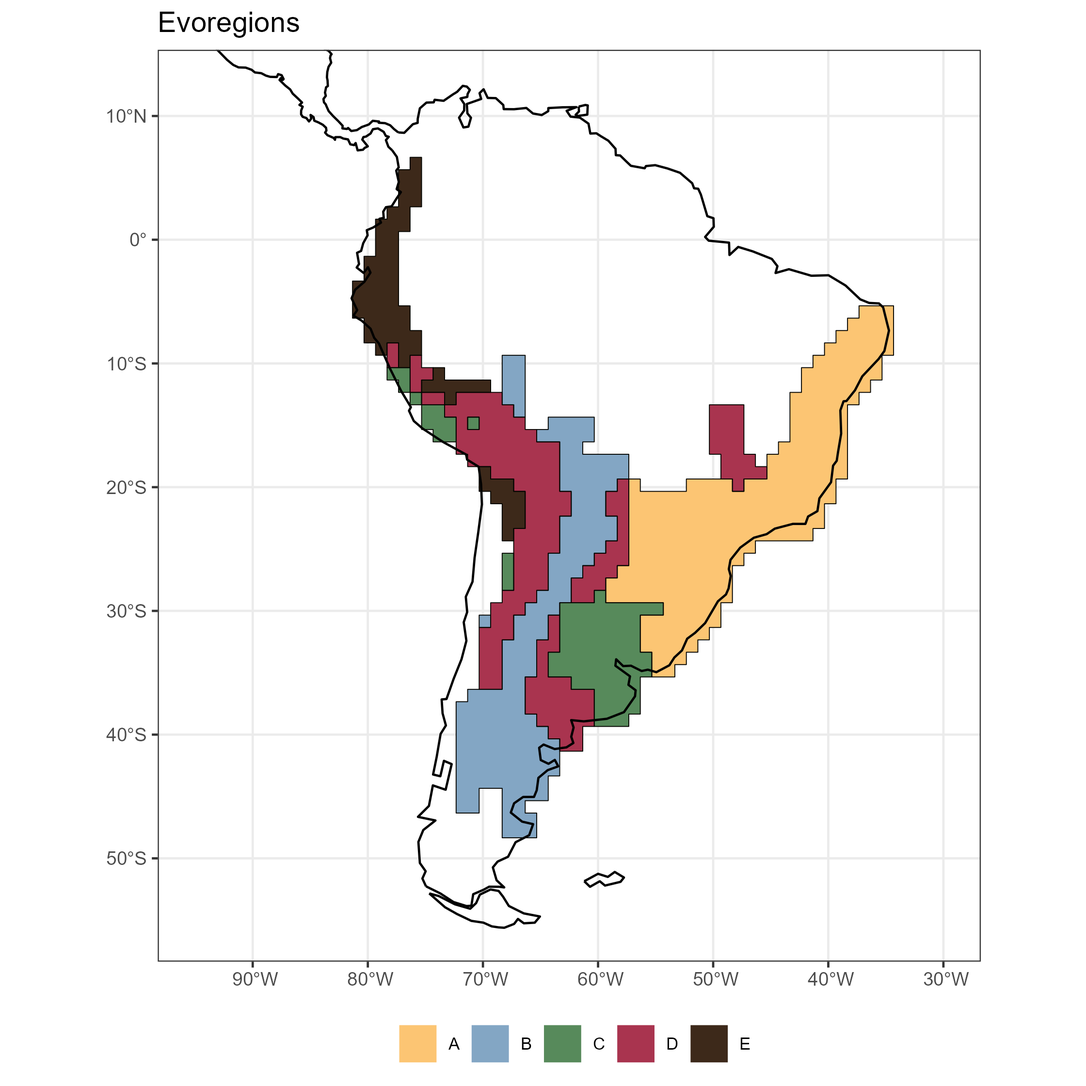
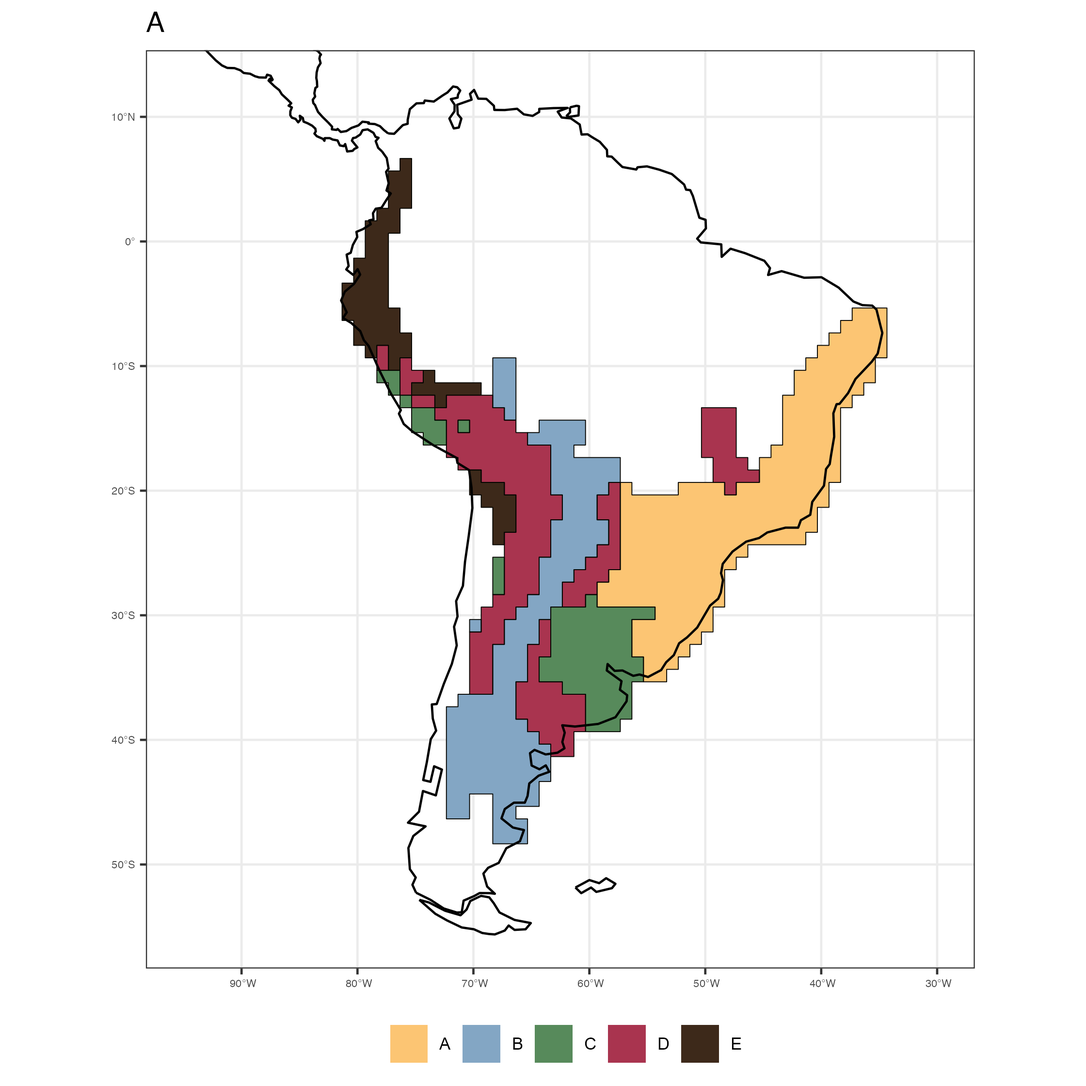
Built site for Herodotools: 0.0.1@b6ad77c

diff --git a/articles/Intro_Herodotools_vignette.html b/articles/Intro_Herodotools_vignette.html
@@ -70,7 +70,7 @@
     <div class="page-header toc-ignore">
       <h1 data-toc-skip>Introduction to Herodotools</h1>
             
-            <h4 data-toc-skip class="date">2022-06-19</h4>
+            <h4 data-toc-skip class="date">2022-06-20</h4>
       
       
       <div class="hidden name"><code>Intro_Herodotools_vignette.Rmd</code></div>
@@ -210,14 +210,14 @@
 <div class="sourceCode" id="cb9"><pre class="downlit sourceCode r">
 <code class="sourceCode R">
 <span class="va">map_evoregion</span> <span class="op">&lt;-</span> 
-<span class="va">evoregion.df</span> <span class="op"><a href="../reference/pipe.html">%&gt;%</a></span> 
+  <span class="va">evoregion.df</span> <span class="op"><a href="../reference/pipe.html">%&gt;%</a></span> 
   <span class="fu"><a href="https://ggplot2.tidyverse.org/reference/ggplot.html" class="external-link">ggplot</a></span><span class="op">(</span><span class="op">)</span> <span class="op">+</span> 
   <span class="fu"><a href="https://ggplot2.tidyverse.org/reference/geom_tile.html" class="external-link">geom_raster</a></span><span class="op">(</span><span class="fu"><a href="https://ggplot2.tidyverse.org/reference/aes.html" class="external-link">aes</a></span><span class="op">(</span>x <span class="op">=</span> <span class="va">LONG</span>, y <span class="op">=</span> <span class="va">LAT</span>, fill <span class="op">=</span> <span class="va">site.region</span><span class="op">)</span><span class="op">)</span> <span class="op">+</span> 
   <span class="fu"><a href="https://ggplot2.tidyverse.org/reference/scale_manual.html" class="external-link">scale_fill_manual</a></span><span class="op">(</span>
     name <span class="op">=</span> <span class="st">""</span>, 
     labels <span class="op">=</span> <span class="va">LETTERS</span><span class="op">[</span><span class="fl">1</span><span class="op">:</span><span class="fl">5</span><span class="op">]</span>,
     values <span class="op">=</span> <span class="fu"><a href="https://rdrr.io/pkg/terra/man/flip.html" class="external-link">rev</a></span><span class="op">(</span><span class="va">col_five_hues</span><span class="op">)</span>
-    <span class="op">)</span> <span class="op">+</span>
+  <span class="op">)</span> <span class="op">+</span>
   <span class="fu"><a href="https://ggplot2.tidyverse.org/reference/ggsf.html" class="external-link">geom_sf</a></span><span class="op">(</span>data <span class="op">=</span> <span class="va">coastline</span><span class="op">)</span> <span class="op">+</span>
   <span class="fu"><a href="https://ggplot2.tidyverse.org/reference/ggsf.html" class="external-link">geom_sf</a></span><span class="op">(</span>
     data <span class="op">=</span> <span class="va">sf.evoregion</span>, 
@@ -225,11 +225,13 @@
     fill <span class="op">=</span> <span class="cn">NA</span>, 
     size <span class="op">=</span> <span class="fl">0.2</span><span class="op">)</span> <span class="op">+</span>
   <span class="fu"><a href="https://ggplot2.tidyverse.org/reference/ggsf.html" class="external-link">coord_sf</a></span><span class="op">(</span>xlim <span class="op">=</span> <span class="va">map.limits</span><span class="op">$</span><span class="va">x</span>, ylim <span class="op">=</span> <span class="va">map.limits</span><span class="op">$</span><span class="va">y</span><span class="op">)</span> <span class="op">+</span>
-  <span class="fu"><a href="https://ggplot2.tidyverse.org/reference/labs.html" class="external-link">ggtitle</a></span><span class="op">(</span><span class="st">"Evoregions"</span><span class="op">)</span> <span class="op">+</span> 
+  <span class="fu"><a href="https://ggplot2.tidyverse.org/reference/labs.html" class="external-link">ggtitle</a></span><span class="op">(</span><span class="st">"A"</span><span class="op">)</span> <span class="op">+</span> 
   <span class="fu"><a href="https://ggplot2.tidyverse.org/reference/ggtheme.html" class="external-link">theme_bw</a></span><span class="op">(</span><span class="op">)</span> <span class="op">+</span>
   <span class="fu"><a href="https://ggplot2.tidyverse.org/reference/theme.html" class="external-link">theme</a></span><span class="op">(</span>
     legend.position <span class="op">=</span> <span class="st">"bottom"</span>,
     axis.title <span class="op">=</span> <span class="fu"><a href="https://ggplot2.tidyverse.org/reference/element.html" class="external-link">element_blank</a></span><span class="op">(</span><span class="op">)</span>,
+    axis.text <span class="op">=</span> <span class="fu"><a href="https://ggplot2.tidyverse.org/reference/element.html" class="external-link">element_text</a></span><span class="op">(</span>size <span class="op">=</span> <span class="fl">5</span><span class="op">)</span>,
+    plot.subtitle <span class="op">=</span> <span class="fu"><a href="https://ggplot2.tidyverse.org/reference/element.html" class="external-link">element_text</a></span><span class="op">(</span>hjust <span class="op">=</span> <span class="fl">0.5</span><span class="op">)</span>,
     legend.text <span class="op">=</span> <span class="fu"><a href="https://ggplot2.tidyverse.org/reference/element.html" class="external-link">element_text</a></span><span class="op">(</span>family <span class="op">=</span> <span class="st">"Arial"</span>, color <span class="op">=</span> <span class="st">"black"</span>, size <span class="op">=</span> <span class="fl">8</span><span class="op">)</span>
   <span class="op">)</span></code></pre></div>
 <p><img src="Fig2_evoregion_akodon.png"><!-- --></p>
@@ -378,44 +380,52 @@
                         tree <span class="op">=</span> <span class="va">akodon.newick</span>, 
                         ancestral.area <span class="op">=</span> <span class="va">node.area</span>, 
                         biogeo <span class="op">=</span> <span class="va">biogeo_area</span><span class="op">)</span> </code></pre></div>
-<p>The function <code>age_arrival</code> returns a object containing the mean age for each assemblage. The mean is calculated considering the arrival age of all species occurring in a assemblage. Species in which the transition to the current region occurred between the last ancestor and the present can be dealt in two ways: the default is attribute a low value for those species, and another option is to attribute the age correspondig to half of the branch length connecting the ancestor to the present time.</p>
+<p>The function <code>age_arrival</code> returns a object containing the mean age for each assemblage. Species in which the transition to the current region occurred between the last ancestor and the present can be dealt in two ways: the default is by represent it as a low arrival value for those species, and another option is to attribute the age corresponding to half of the branch length connecting the ancestor to the present time. Here we adopted the first option.</p>
 <p>With mean age for each assemblage we can map the ages for all assemblages</p>
 <div class="sourceCode" id="cb16"><pre class="downlit sourceCode r">
 <code class="sourceCode R">
 <span class="va">sites</span> <span class="op">&lt;-</span> <span class="fu"><a href="https://dplyr.tidyverse.org/reference/bind.html" class="external-link">bind_cols</a></span><span class="op">(</span><span class="va">site.xy</span>, site.region <span class="op">=</span>  <span class="va">site.region</span>, <span class="va">afi</span>, age <span class="op">=</span> <span class="va">age_comm</span><span class="op">$</span><span class="va">mean_age_per_assemblage</span><span class="op">)</span>
 
 <span class="va">map_age</span> <span class="op">&lt;-</span> 
-   <span class="va">sites</span> <span class="op"><a href="../reference/pipe.html">%&gt;%</a></span> 
-   <span class="fu"><a href="https://ggplot2.tidyverse.org/reference/ggplot.html" class="external-link">ggplot</a></span><span class="op">(</span><span class="op">)</span> <span class="op">+</span> 
-   <span class="fu"><a href="https://ggplot2.tidyverse.org/reference/geom_tile.html" class="external-link">geom_raster</a></span><span class="op">(</span><span class="fu"><a href="https://ggplot2.tidyverse.org/reference/aes.html" class="external-link">aes</a></span><span class="op">(</span>x <span class="op">=</span> <span class="va">LONG</span>, y <span class="op">=</span> <span class="va">LAT</span>, fill <span class="op">=</span> <span class="va">mean_age_arrival</span><span class="op">)</span><span class="op">)</span> <span class="op">+</span> 
-   <span class="fu"><a href="https://rdrr.io/pkg/rcartocolor/man/carto_scale.html" class="external-link">scale_fill_carto_c</a></span><span class="op">(</span>type <span class="op">=</span> <span class="st">"quantitative"</span>, palette <span class="op">=</span> <span class="st">"SunsetDark"</span><span class="op">)</span> <span class="op">+</span>
-   <span class="fu"><a href="https://ggplot2.tidyverse.org/reference/ggsf.html" class="external-link">geom_sf</a></span><span class="op">(</span>data <span class="op">=</span> <span class="va">coastline</span>, size <span class="op">=</span> <span class="fl">0.4</span><span class="op">)</span> <span class="op">+</span>
-   <span class="fu"><a href="https://ggplot2.tidyverse.org/reference/ggsf.html" class="external-link">geom_sf</a></span><span class="op">(</span>
-     data <span class="op">=</span> <span class="va">sf.evoregion</span>, 
-     color <span class="op">=</span> <span class="fu"><a href="https://rdrr.io/pkg/terra/man/flip.html" class="external-link">rev</a></span><span class="op">(</span><span class="va">col_five_hues</span><span class="op">)</span>,
-     fill <span class="op">=</span> <span class="cn">NA</span>, 
-     size <span class="op">=</span> <span class="fl">0.7</span><span class="op">)</span> <span class="op">+</span>
-   <span class="fu"><a href="https://ggplot2.tidyverse.org/reference/ggsf.html" class="external-link">coord_sf</a></span><span class="op">(</span>xlim <span class="op">=</span> <span class="va">map.limits</span><span class="op">$</span><span class="va">x</span>, ylim <span class="op">=</span> <span class="va">map.limits</span><span class="op">$</span><span class="va">y</span><span class="op">)</span> <span class="op">+</span>
-   <span class="fu"><a href="https://ggplot2.tidyverse.org/reference/labs.html" class="external-link">ggtitle</a></span><span class="op">(</span><span class="st">"Age of assemblages for Akodon Genus"</span><span class="op">)</span> <span class="op">+</span> 
-   <span class="fu"><a href="https://ggplot2.tidyverse.org/reference/ggtheme.html" class="external-link">theme_bw</a></span><span class="op">(</span><span class="op">)</span> <span class="op">+</span>
-   <span class="fu"><a href="https://ggplot2.tidyverse.org/reference/labs.html" class="external-link">labs</a></span><span class="op">(</span>fill <span class="op">=</span> <span class="st">"Mean arrival age"</span><span class="op">)</span> <span class="op">+</span>
-   <span class="fu"><a href="https://ggplot2.tidyverse.org/reference/guides.html" class="external-link">guides</a></span><span class="op">(</span>fill <span class="op">=</span> <span class="fu"><a href="https://ggplot2.tidyverse.org/reference/guide_colourbar.html" class="external-link">guide_colorbar</a></span><span class="op">(</span>barheight <span class="op">=</span> <span class="fu"><a href="https://rdrr.io/r/grid/unit.html" class="external-link">unit</a></span><span class="op">(</span><span class="fl">2.3</span>, units <span class="op">=</span> <span class="st">"mm"</span><span class="op">)</span>,  
+  <span class="va">sites</span> <span class="op"><a href="../reference/pipe.html">%&gt;%</a></span> 
+  <span class="fu"><a href="https://ggplot2.tidyverse.org/reference/ggplot.html" class="external-link">ggplot</a></span><span class="op">(</span><span class="op">)</span> <span class="op">+</span> 
+  <span class="fu"><a href="https://ggplot2.tidyverse.org/reference/geom_tile.html" class="external-link">geom_raster</a></span><span class="op">(</span><span class="fu"><a href="https://ggplot2.tidyverse.org/reference/aes.html" class="external-link">aes</a></span><span class="op">(</span>x <span class="op">=</span> <span class="va">LONG</span>, y <span class="op">=</span> <span class="va">LAT</span>, fill <span class="op">=</span> <span class="va">mean_age_arrival</span><span class="op">)</span><span class="op">)</span> <span class="op">+</span> 
+  <span class="fu"><a href="https://rdrr.io/pkg/rcartocolor/man/carto_scale.html" class="external-link">scale_fill_carto_c</a></span><span class="op">(</span>type <span class="op">=</span> <span class="st">"quantitative"</span>, 
+                     palette <span class="op">=</span> <span class="st">"SunsetDark"</span>,
+                     direction <span class="op">=</span> <span class="fl">1</span>, 
+                     limits <span class="op">=</span> <span class="fu"><a href="https://rdrr.io/pkg/terra/man/c.html" class="external-link">c</a></span><span class="op">(</span><span class="fl">0</span>, <span class="fl">3.5</span><span class="op">)</span>,  <span class="co">## max percent overall</span>
+                     breaks <span class="op">=</span> <span class="fu"><a href="https://rdrr.io/r/base/seq.html" class="external-link">seq</a></span><span class="op">(</span><span class="fl">0</span>, <span class="fl">3.5</span>, by <span class="op">=</span> <span class="fl">.5</span><span class="op">)</span>,
+                     labels <span class="op">=</span> <span class="fu">glue</span><span class="fu">::</span><span class="fu"><a href="https://glue.tidyverse.org/reference/glue.html" class="external-link">glue</a></span><span class="op">(</span><span class="st">"{seq(0, 3.5, by = 0.5)}"</span><span class="op">)</span><span class="op">)</span> <span class="op">+</span>
+  <span class="fu"><a href="https://ggplot2.tidyverse.org/reference/ggsf.html" class="external-link">geom_sf</a></span><span class="op">(</span>data <span class="op">=</span> <span class="va">coastline</span>, size <span class="op">=</span> <span class="fl">0.4</span><span class="op">)</span> <span class="op">+</span>
+  <span class="fu"><a href="https://ggplot2.tidyverse.org/reference/ggsf.html" class="external-link">geom_sf</a></span><span class="op">(</span>
+    data <span class="op">=</span> <span class="va">sf.evoregion</span>, 
+    color <span class="op">=</span> <span class="fu"><a href="https://rdrr.io/pkg/terra/man/flip.html" class="external-link">rev</a></span><span class="op">(</span><span class="va">col_five_hues</span><span class="op">)</span>,
+    fill <span class="op">=</span> <span class="cn">NA</span>, 
+    size <span class="op">=</span> <span class="fl">0.7</span><span class="op">)</span> <span class="op">+</span>
+  <span class="fu"><a href="https://ggplot2.tidyverse.org/reference/ggsf.html" class="external-link">coord_sf</a></span><span class="op">(</span>xlim <span class="op">=</span> <span class="va">map.limits</span><span class="op">$</span><span class="va">x</span>, ylim <span class="op">=</span> <span class="va">map.limits</span><span class="op">$</span><span class="va">y</span><span class="op">)</span> <span class="op">+</span>
+  <span class="fu"><a href="https://ggplot2.tidyverse.org/reference/labs.html" class="external-link">ggtitle</a></span><span class="op">(</span><span class="st">"B"</span><span class="op">)</span> <span class="op">+</span> 
+  <span class="fu"><a href="https://ggplot2.tidyverse.org/reference/ggtheme.html" class="external-link">theme_bw</a></span><span class="op">(</span><span class="op">)</span> <span class="op">+</span>
+  <span class="fu"><a href="https://ggplot2.tidyverse.org/reference/labs.html" class="external-link">labs</a></span><span class="op">(</span>fill <span class="op">=</span> <span class="st">"Mean age (Myr)"</span><span class="op">)</span> <span class="op">+</span>
+  <span class="fu"><a href="https://ggplot2.tidyverse.org/reference/guides.html" class="external-link">guides</a></span><span class="op">(</span>fill <span class="op">=</span> <span class="fu"><a href="https://ggplot2.tidyverse.org/reference/guide_colourbar.html" class="external-link">guide_colorbar</a></span><span class="op">(</span>barheight <span class="op">=</span> <span class="fu"><a href="https://rdrr.io/r/grid/unit.html" class="external-link">unit</a></span><span class="op">(</span><span class="fl">2.3</span>, units <span class="op">=</span> <span class="st">"mm"</span><span class="op">)</span>,  
                                direction <span class="op">=</span> <span class="st">"horizontal"</span>,
                                ticks.colour <span class="op">=</span> <span class="st">"grey20"</span>,
                                title.position <span class="op">=</span> <span class="st">"top"</span>,
                                label.position <span class="op">=</span> <span class="st">"bottom"</span>,
                                title.hjust <span class="op">=</span> <span class="fl">0.5</span><span class="op">)</span><span class="op">)</span> <span class="op">+</span>
-   <span class="fu"><a href="https://ggplot2.tidyverse.org/reference/theme.html" class="external-link">theme</a></span><span class="op">(</span>
-     legend.position <span class="op">=</span> <span class="st">"bottom"</span>,
-     axis.title <span class="op">=</span> <span class="fu"><a href="https://ggplot2.tidyverse.org/reference/element.html" class="external-link">element_blank</a></span><span class="op">(</span><span class="op">)</span>
-   <span class="op">)</span></code></pre></div>
+  <span class="fu"><a href="https://ggplot2.tidyverse.org/reference/theme.html" class="external-link">theme</a></span><span class="op">(</span>
+    legend.position <span class="op">=</span> <span class="st">"bottom"</span>,
+    axis.title <span class="op">=</span> <span class="fu"><a href="https://ggplot2.tidyverse.org/reference/element.html" class="external-link">element_blank</a></span><span class="op">(</span><span class="op">)</span>,
+    legend.text <span class="op">=</span> <span class="fu"><a href="https://ggplot2.tidyverse.org/reference/element.html" class="external-link">element_text</a></span><span class="op">(</span>size <span class="op">=</span> <span class="fl">10</span><span class="op">)</span>, 
+    axis.text <span class="op">=</span> <span class="fu"><a href="https://ggplot2.tidyverse.org/reference/element.html" class="external-link">element_text</a></span><span class="op">(</span>size <span class="op">=</span> <span class="fl">5</span><span class="op">)</span>,
+    plot.subtitle <span class="op">=</span> <span class="fu"><a href="https://ggplot2.tidyverse.org/reference/element.html" class="external-link">element_text</a></span><span class="op">(</span>hjust <span class="op">=</span> <span class="fl">0.5</span><span class="op">)</span>
+  <span class="op">)</span></code></pre></div>
 <p><img src="Fig4_age_akodon.png"><!-- --></p>
 </div>
 <div class="section level3">
 <h3 id="phylomodelmetrics">Model-based diversification metrics<a class="anchor" aria-label="anchor" href="#phylomodelmetrics"></a>
 </h3>
-<p>We can also calculate measures of diversification considering the macroevolutionary dynamics. The new measures allows to decompose the effects of two macroevolutionary process: in situ diversification and historical dispersal. Here we will illustrate this by calculating a common tip-based diversification measure propposed by <a href="https://www.nature.com/articles/nature11631" class="external-link">Jetz et al</a>.</p>
-<p>We modified the original metric to take into account only the portion of evolutionary history that are associated with the region in which the species currently occupy, this value represent the diversification that occurred due to <em>in situ diversification process</em></p>
+<p>We can also calculate measures of diversification considering the macroevolutionary dynamics of ancestor area. The new measures allows to decompose the effects of two macroevolutionary process: in situ diversification and historical dispersal. Here we will illustrate this by calculating a common tip-based diversification measure propposed by <a href="">Reeding and Moers</a> that consists in the inverse of equal-splits measure called Diversification Rate (DR).</p>
+<p>We modified the original metric to take into account only the portion of evolutionary history that is associated with the region in which the species currently occupy, this value represent the diversification that occurred due to <em>in situ diversification process</em></p>
 <div class="sourceCode" id="cb17"><pre class="downlit sourceCode r">
 <code class="sourceCode R"><span class="va">akodon_diversification</span> <span class="op">&lt;-</span> 
 <span class="fu"><a href="../reference/db_diversification.html">db_diversification</a></span><span class="op">(</span>W <span class="op">=</span> <span class="va">akodon.pa.tree</span>,
@@ -460,30 +470,38 @@
    <span class="op">)</span>
 
 <span class="va">map_diversification_model_based</span> <span class="op">&lt;-</span> 
-   <span class="va">sites</span> <span class="op"><a href="../reference/pipe.html">%&gt;%</a></span> 
-   <span class="fu"><a href="https://ggplot2.tidyverse.org/reference/ggplot.html" class="external-link">ggplot</a></span><span class="op">(</span><span class="op">)</span> <span class="op">+</span> 
-   <span class="fu"><a href="https://ggplot2.tidyverse.org/reference/geom_tile.html" class="external-link">geom_raster</a></span><span class="op">(</span><span class="fu"><a href="https://ggplot2.tidyverse.org/reference/aes.html" class="external-link">aes</a></span><span class="op">(</span>x <span class="op">=</span> <span class="va">LONG</span>, y <span class="op">=</span> <span class="va">LAT</span>, fill <span class="op">=</span> <span class="va">diversification_model_based</span><span class="op">)</span><span class="op">)</span> <span class="op">+</span> 
-   <span class="fu"><a href="https://rdrr.io/pkg/rcartocolor/man/carto_scale.html" class="external-link">scale_fill_carto_c</a></span><span class="op">(</span>type <span class="op">=</span> <span class="st">"quantitative"</span>, palette <span class="op">=</span> <span class="st">"SunsetDark"</span><span class="op">)</span> <span class="op">+</span>
-   <span class="fu"><a href="https://ggplot2.tidyverse.org/reference/ggsf.html" class="external-link">geom_sf</a></span><span class="op">(</span>data <span class="op">=</span> <span class="va">coastline</span>, size <span class="op">=</span> <span class="fl">0.4</span><span class="op">)</span> <span class="op">+</span>
-   <span class="fu"><a href="https://ggplot2.tidyverse.org/reference/ggsf.html" class="external-link">geom_sf</a></span><span class="op">(</span>
-     data <span class="op">=</span> <span class="va">sf.evoregion</span>, 
-     color <span class="op">=</span> <span class="fu"><a href="https://rdrr.io/pkg/terra/man/flip.html" class="external-link">rev</a></span><span class="op">(</span><span class="va">col_five_hues</span><span class="op">)</span>,
-     fill <span class="op">=</span> <span class="cn">NA</span>, 
-     size <span class="op">=</span> <span class="fl">0.7</span><span class="op">)</span> <span class="op">+</span>
-   <span class="fu"><a href="https://ggplot2.tidyverse.org/reference/ggsf.html" class="external-link">coord_sf</a></span><span class="op">(</span>xlim <span class="op">=</span> <span class="va">map.limits</span><span class="op">$</span><span class="va">x</span>, ylim <span class="op">=</span> <span class="va">map.limits</span><span class="op">$</span><span class="va">y</span><span class="op">)</span> <span class="op">+</span>
-   <span class="fu"><a href="https://ggplot2.tidyverse.org/reference/labs.html" class="external-link">ggtitle</a></span><span class="op">(</span><span class="st">"In-situ Diversification"</span><span class="op">)</span> <span class="op">+</span> 
-   <span class="fu"><a href="https://ggplot2.tidyverse.org/reference/ggtheme.html" class="external-link">theme_bw</a></span><span class="op">(</span><span class="op">)</span> <span class="op">+</span>
-   <span class="fu"><a href="https://ggplot2.tidyverse.org/reference/labs.html" class="external-link">labs</a></span><span class="op">(</span>fill <span class="op">=</span> <span class="st">"Harmonic mean in-situ diversification"</span><span class="op">)</span> <span class="op">+</span>
-    <span class="fu"><a href="https://ggplot2.tidyverse.org/reference/guides.html" class="external-link">guides</a></span><span class="op">(</span>fill <span class="op">=</span> <span class="fu"><a href="https://ggplot2.tidyverse.org/reference/guide_colourbar.html" class="external-link">guide_colorbar</a></span><span class="op">(</span>barheight <span class="op">=</span> <span class="fu"><a href="https://rdrr.io/r/grid/unit.html" class="external-link">unit</a></span><span class="op">(</span><span class="fl">2.3</span>, units <span class="op">=</span> <span class="st">"mm"</span><span class="op">)</span>,  
+  <span class="va">sites</span> <span class="op"><a href="../reference/pipe.html">%&gt;%</a></span> 
+  <span class="fu"><a href="https://ggplot2.tidyverse.org/reference/ggplot.html" class="external-link">ggplot</a></span><span class="op">(</span><span class="op">)</span> <span class="op">+</span> 
+  <span class="fu"><a href="https://ggplot2.tidyverse.org/reference/geom_tile.html" class="external-link">geom_raster</a></span><span class="op">(</span><span class="fu"><a href="https://ggplot2.tidyverse.org/reference/aes.html" class="external-link">aes</a></span><span class="op">(</span>x <span class="op">=</span> <span class="va">LONG</span>, y <span class="op">=</span> <span class="va">LAT</span>, fill <span class="op">=</span> <span class="va">diversification_model_based</span><span class="op">)</span><span class="op">)</span> <span class="op">+</span> 
+  <span class="fu"><a href="https://rdrr.io/pkg/rcartocolor/man/carto_scale.html" class="external-link">scale_fill_carto_c</a></span><span class="op">(</span>type <span class="op">=</span> <span class="st">"quantitative"</span>,
+                     palette <span class="op">=</span> <span class="st">"SunsetDark"</span>, 
+                     direction <span class="op">=</span> <span class="fl">1</span>, 
+                     limits <span class="op">=</span> <span class="fu"><a href="https://rdrr.io/pkg/terra/man/c.html" class="external-link">c</a></span><span class="op">(</span><span class="fl">0</span>, <span class="fl">1</span><span class="op">)</span>,  <span class="co">## max percent overall</span>
+                     breaks <span class="op">=</span> <span class="fu"><a href="https://rdrr.io/r/base/seq.html" class="external-link">seq</a></span><span class="op">(</span><span class="fl">0</span>, <span class="fl">1</span>, by <span class="op">=</span> <span class="fl">.25</span><span class="op">)</span>,
+                     labels <span class="op">=</span> <span class="fu">glue</span><span class="fu">::</span><span class="fu"><a href="https://glue.tidyverse.org/reference/glue.html" class="external-link">glue</a></span><span class="op">(</span><span class="st">"{seq(0, 1, by = 0.25)}"</span><span class="op">)</span><span class="op">)</span> <span class="op">+</span>
+  <span class="fu"><a href="https://ggplot2.tidyverse.org/reference/ggsf.html" class="external-link">geom_sf</a></span><span class="op">(</span>data <span class="op">=</span> <span class="va">coastline</span>, size <span class="op">=</span> <span class="fl">0.4</span><span class="op">)</span> <span class="op">+</span>
+  <span class="fu"><a href="https://ggplot2.tidyverse.org/reference/ggsf.html" class="external-link">geom_sf</a></span><span class="op">(</span>
+    data <span class="op">=</span> <span class="va">sf.evoregion</span>, 
+    color <span class="op">=</span> <span class="fu"><a href="https://rdrr.io/pkg/terra/man/flip.html" class="external-link">rev</a></span><span class="op">(</span><span class="va">col_five_hues</span><span class="op">)</span>,
+    fill <span class="op">=</span> <span class="cn">NA</span>, 
+    size <span class="op">=</span> <span class="fl">0.7</span><span class="op">)</span> <span class="op">+</span>
+  <span class="fu"><a href="https://ggplot2.tidyverse.org/reference/ggsf.html" class="external-link">coord_sf</a></span><span class="op">(</span>xlim <span class="op">=</span> <span class="va">map.limits</span><span class="op">$</span><span class="va">x</span>, ylim <span class="op">=</span> <span class="va">map.limits</span><span class="op">$</span><span class="va">y</span><span class="op">)</span> <span class="op">+</span>
+  <span class="fu"><a href="https://ggplot2.tidyverse.org/reference/labs.html" class="external-link">ggtitle</a></span><span class="op">(</span><span class="st">"C"</span><span class="op">)</span> <span class="op">+</span> 
+  <span class="fu"><a href="https://ggplot2.tidyverse.org/reference/ggtheme.html" class="external-link">theme_bw</a></span><span class="op">(</span><span class="op">)</span> <span class="op">+</span>
+  <span class="fu"><a href="https://ggplot2.tidyverse.org/reference/labs.html" class="external-link">labs</a></span><span class="op">(</span>fill <span class="op">=</span> <span class="st">"In-situ diversification"</span><span class="op">)</span> <span class="op">+</span>
+  <span class="fu"><a href="https://ggplot2.tidyverse.org/reference/guides.html" class="external-link">guides</a></span><span class="op">(</span>fill <span class="op">=</span> <span class="fu"><a href="https://ggplot2.tidyverse.org/reference/guide_colourbar.html" class="external-link">guide_colorbar</a></span><span class="op">(</span>barheight <span class="op">=</span> <span class="fu"><a href="https://rdrr.io/r/grid/unit.html" class="external-link">unit</a></span><span class="op">(</span><span class="fl">2.3</span>, units <span class="op">=</span> <span class="st">"mm"</span><span class="op">)</span>,  
                                direction <span class="op">=</span> <span class="st">"horizontal"</span>,
                                ticks.colour <span class="op">=</span> <span class="st">"grey20"</span>,
                                title.position <span class="op">=</span> <span class="st">"top"</span>,
                                label.position <span class="op">=</span> <span class="st">"bottom"</span>,
                                title.hjust <span class="op">=</span> <span class="fl">0.5</span><span class="op">)</span><span class="op">)</span> <span class="op">+</span>
-   <span class="fu"><a href="https://ggplot2.tidyverse.org/reference/theme.html" class="external-link">theme</a></span><span class="op">(</span>
-     legend.position <span class="op">=</span> <span class="st">"bottom"</span>,
-     axis.title <span class="op">=</span> <span class="fu"><a href="https://ggplot2.tidyverse.org/reference/element.html" class="external-link">element_blank</a></span><span class="op">(</span><span class="op">)</span>
-   <span class="op">)</span>
+  <span class="fu"><a href="https://ggplot2.tidyverse.org/reference/theme.html" class="external-link">theme</a></span><span class="op">(</span>
+    legend.position <span class="op">=</span> <span class="st">"bottom"</span>,
+    axis.title <span class="op">=</span> <span class="fu"><a href="https://ggplot2.tidyverse.org/reference/element.html" class="external-link">element_blank</a></span><span class="op">(</span><span class="op">)</span>,
+    legend.text <span class="op">=</span> <span class="fu"><a href="https://ggplot2.tidyverse.org/reference/element.html" class="external-link">element_text</a></span><span class="op">(</span>size <span class="op">=</span> <span class="fl">10</span><span class="op">)</span>, 
+    axis.text <span class="op">=</span> <span class="fu"><a href="https://ggplot2.tidyverse.org/reference/element.html" class="external-link">element_text</a></span><span class="op">(</span>size <span class="op">=</span> <span class="fl">5</span><span class="op">)</span>,
+    plot.subtitle <span class="op">=</span> <span class="fu"><a href="https://ggplot2.tidyverse.org/reference/element.html" class="external-link">element_text</a></span><span class="op">(</span>hjust <span class="op">=</span> <span class="fl">0.5</span><span class="op">)</span>
+  <span class="op">)</span>
 
 
 <span class="va">map_diversification_complete</span> <span class="op">&lt;-</span> <span class="va">map_diversification</span> <span class="op">+</span> <span class="va">map_diversification_model_based</span></code></pre></div>
@@ -509,6 +527,7 @@
                    <span class="va">afi</span>, 
                    age <span class="op">=</span> <span class="va">age_comm</span><span class="op">$</span><span class="va">mean_age_per_assemblage</span>,
                    diversification <span class="op">=</span> <span class="va">akodon_diversification</span><span class="op">$</span><span class="va">Jetz_harmonic_mean_site</span>,
+                   diversification_model_based <span class="op">=</span> <span class="va">akodon_diversification</span><span class="op">$</span><span class="va">model_based_Jetz_harmonic_mean_site</span>,
                    dispersal.D <span class="op">=</span> <span class="va">akodon_dispersal</span><span class="op">[</span>,<span class="fl">1</span><span class="op">]</span>, 
                    dispersal.A <span class="op">=</span> <span class="va">akodon_dispersal</span><span class="op">[</span>, <span class="fl">2</span><span class="op">]</span>,
                    dispersal.E <span class="op">=</span> <span class="va">akodon_dispersal</span><span class="op">[</span>, <span class="fl">3</span><span class="op">]</span>,
